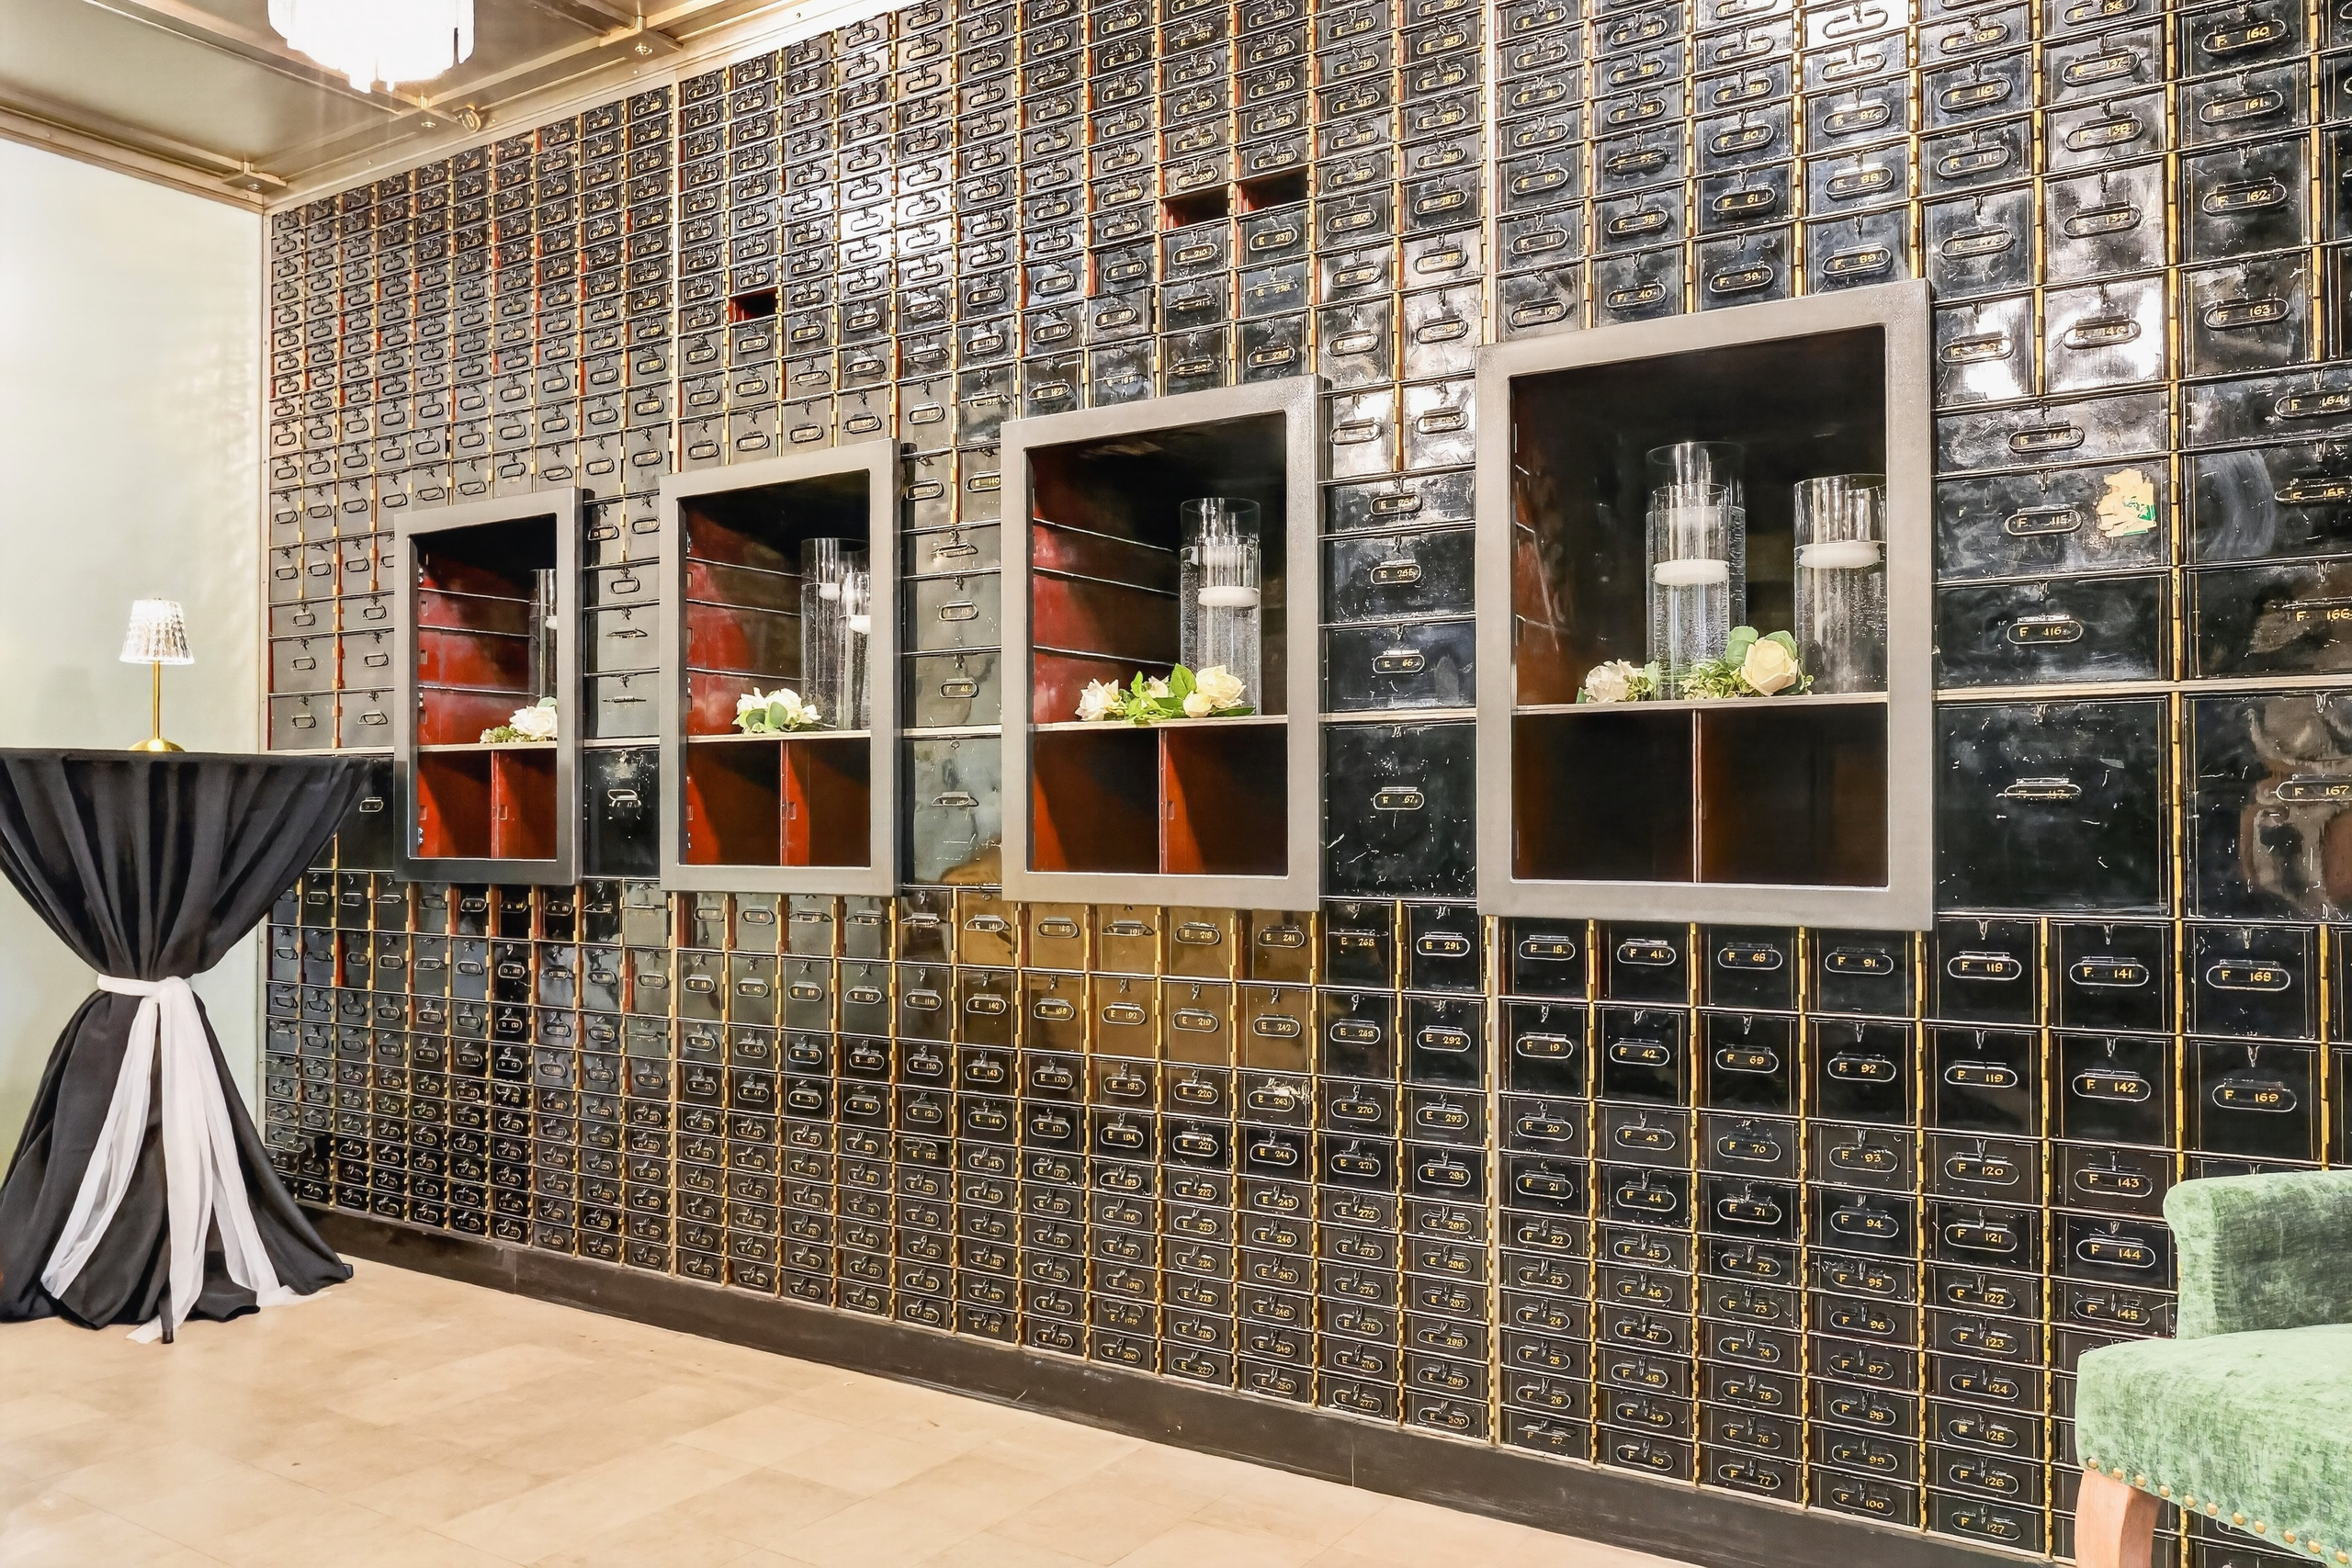
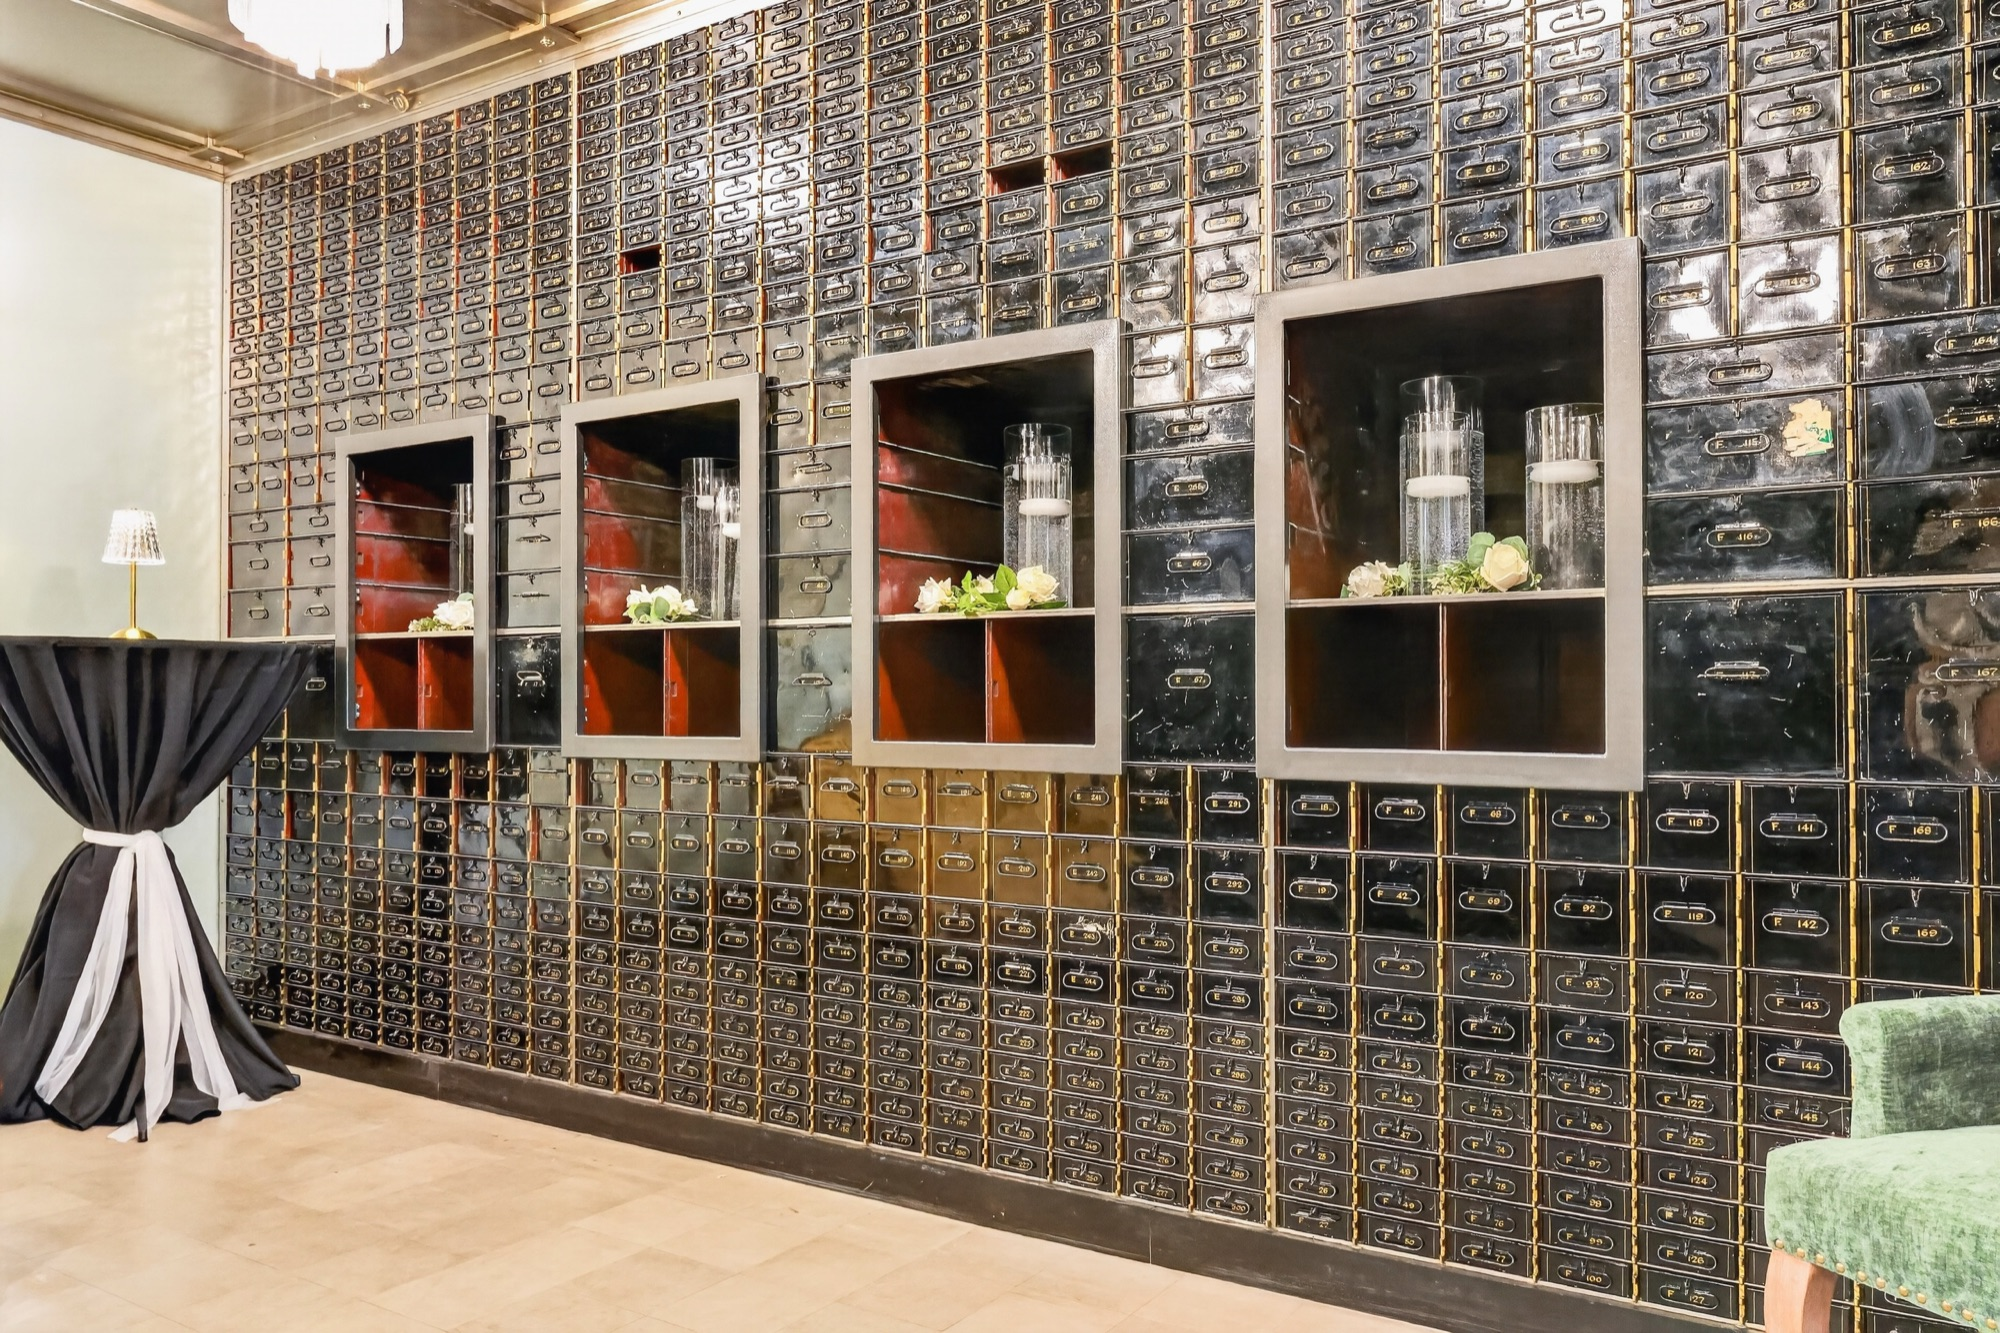
Add wedding photos to the Weddings gallery
Fill WED-2..6 with the provided wedding photos (grand-hall reception,
ceremony view through the brass gates, vault-wall florals, vault-door
reception, and an event lounge vignette), optimized to the 2000px
standard. Keep WED-7 as the "real wedding photos coming soon"
placeholder so the gallery stays a clean 3x2 grid.

diff --git a/weddings.html b/weddings.html
@@ -161,11 +161,11 @@
                 <h2>Weddings at The Miners</h2>
             </div>
             <div class="gallery reveal">
-                <img data-photo="WED-2" src="./images/GarnetDahlia-1375.JPG" alt="Wedding reception in the Vault Room">
-                <img data-photo="WED-3" src="./images/GarnetDahlia-1372.JPG" alt="Wedding detail">
-                <img data-photo="WED-4" src="./images/GarnetDahlia-6071.JPG" alt="Wedding detail">
-                <img data-photo="WED-5" src="./images/vault.JPG" alt="The Vault Room">
-                <img data-photo="WED-6" src="./images/bridal_room.jpg" alt="The Jacqueline Suite">
+                <img data-photo="WED-2" src="./images/WED-2.jpg" alt="A vintage tufted sofa and cocktail tables set before the gilded Miners 1928 vault wall">
+                <img data-photo="WED-3" src="./images/Wed-3.jpg" alt="Floral arrangements tucked into the historic vault's safe-deposit boxes">
+                <img data-photo="WED-4" src="./images/WED-4.jpg" alt="A wedding reception in the grand banking hall, set with round tables beneath the skylight and chandelier">
+                <img data-photo="WED-5" src="./images/Wed-5.jpg" alt="The view through the brass gates into the banking hall, set for a ceremony with an aisle runner">
+                <img data-photo="WED-6" src="./images/WED-6.jpg" alt="Reception tables set before the historic vault door beneath the balcony greenery">
                 <div data-photo="WED-7" data-photo-empty class="gallery__placeholder">Real wedding photos coming soon</div>
             </div>
         </div>

diff --git a/PHOTO-CHECKLIST.md b/PHOTO-CHECKLIST.md
@@ -75,11 +75,11 @@ _Generated by `node photo-spots.js`. Re-run after adding or removing images._
 | Code | Status | Section | Current image | Description |
 |------|--------|---------|---------------|-------------|
 | `WED-1` | 🔴 have | HERO | GarnetDahlia-1375.JPG | A wedding reception set beneath the vaulted ceiling of the Vault Room |
-| `WED-2` | 🔴 have | PHOTO GALLERY | GarnetDahlia-1375.JPG | Wedding reception in the Vault Room |
-| `WED-3` | 🔴 have | PHOTO GALLERY | GarnetDahlia-1372.JPG | Wedding detail |
-| `WED-4` | 🔴 have | PHOTO GALLERY | GarnetDahlia-6071.JPG | Wedding detail |
-| `WED-5` | 🔴 have | PHOTO GALLERY | vault.JPG | The Vault Room |
-| `WED-6` | 🔴 have | PHOTO GALLERY | bridal_room.jpg | The Jacqueline Suite |
+| `WED-2` | 🔴 have | PHOTO GALLERY | WED-2.jpg | A vintage tufted sofa and cocktail tables set before the gilded Miners 1928 vault wall |
+| `WED-3` | 🔴 have | PHOTO GALLERY | Wed-3.jpg | Floral arrangements tucked into the historic vault's safe-deposit boxes |
+| `WED-4` | 🔴 have | PHOTO GALLERY | WED-4.jpg | A wedding reception in the grand banking hall, set with round tables beneath the skylight and chandelier |
+| `WED-5` | 🔴 have | PHOTO GALLERY | Wed-5.jpg | The view through the brass gates into the banking hall, set for a ceremony with an aisle runner |
+| `WED-6` | 🔴 have | PHOTO GALLERY | WED-6.jpg | Reception tables set before the historic vault door beneath the balcony greenery |
 | `WED-7` | 🔵 needs photo | PHOTO GALLERY | (empty slot) |  |
 
 ## Private Events & Meetings (`private-events.html`)